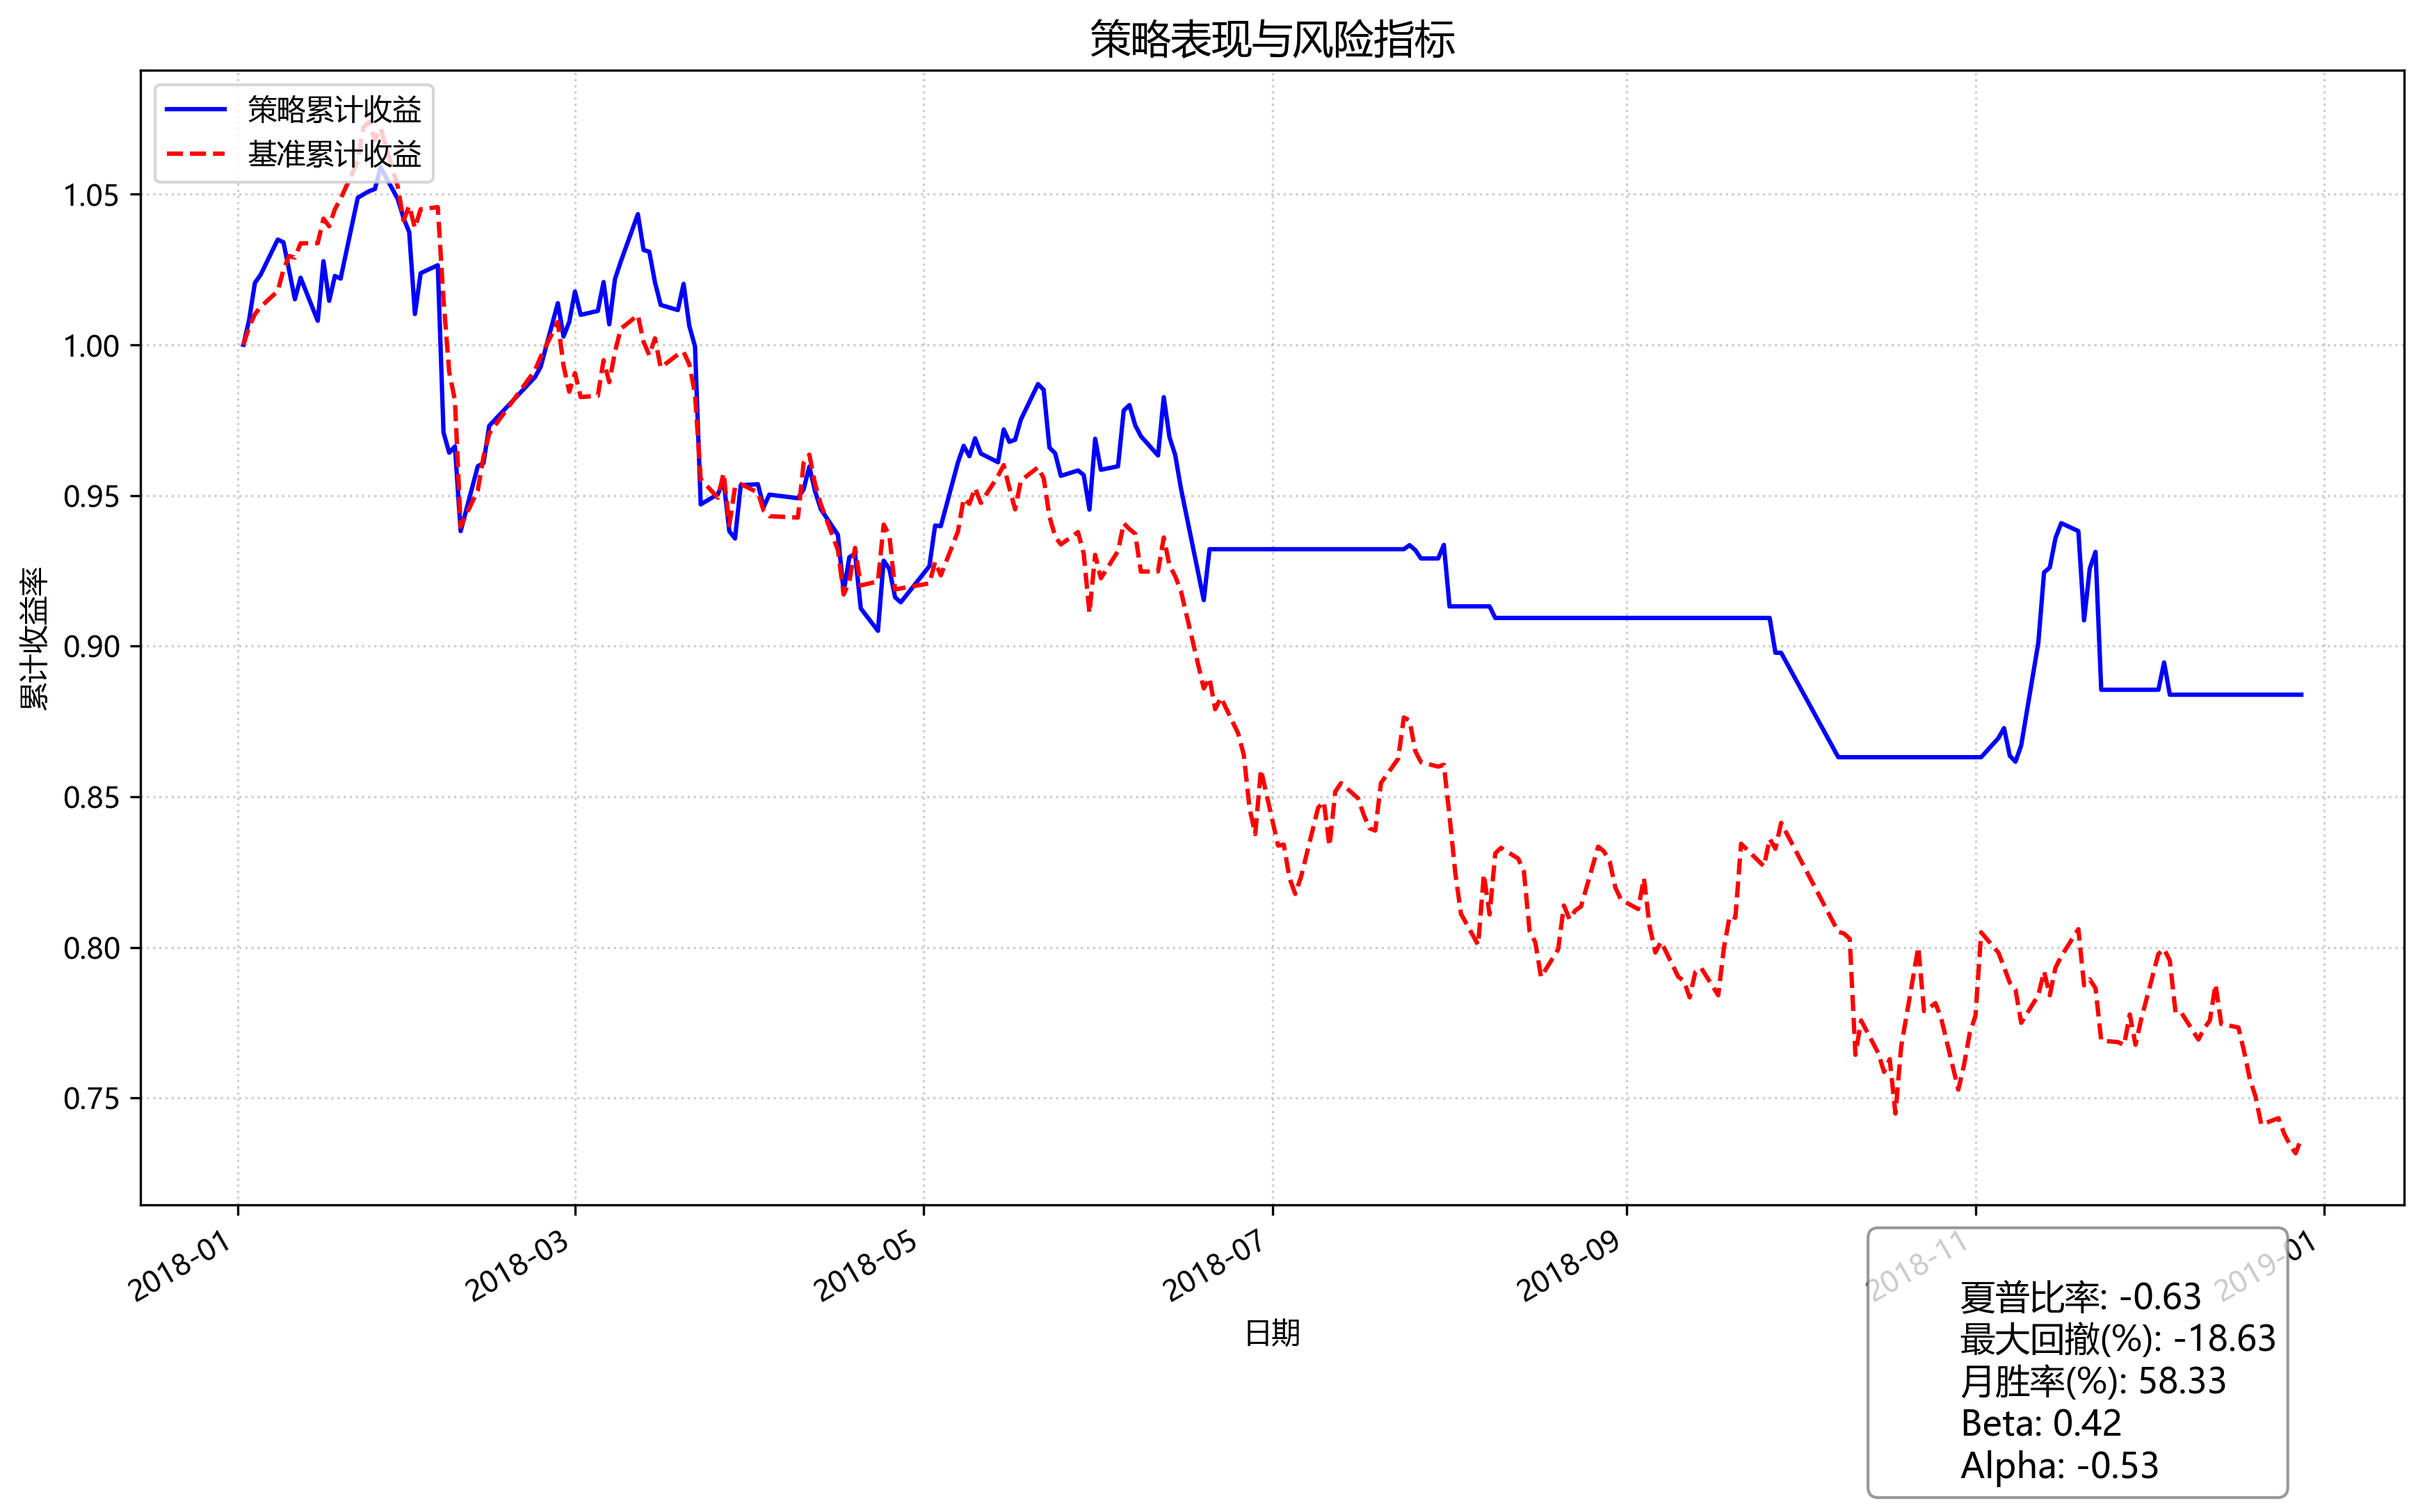
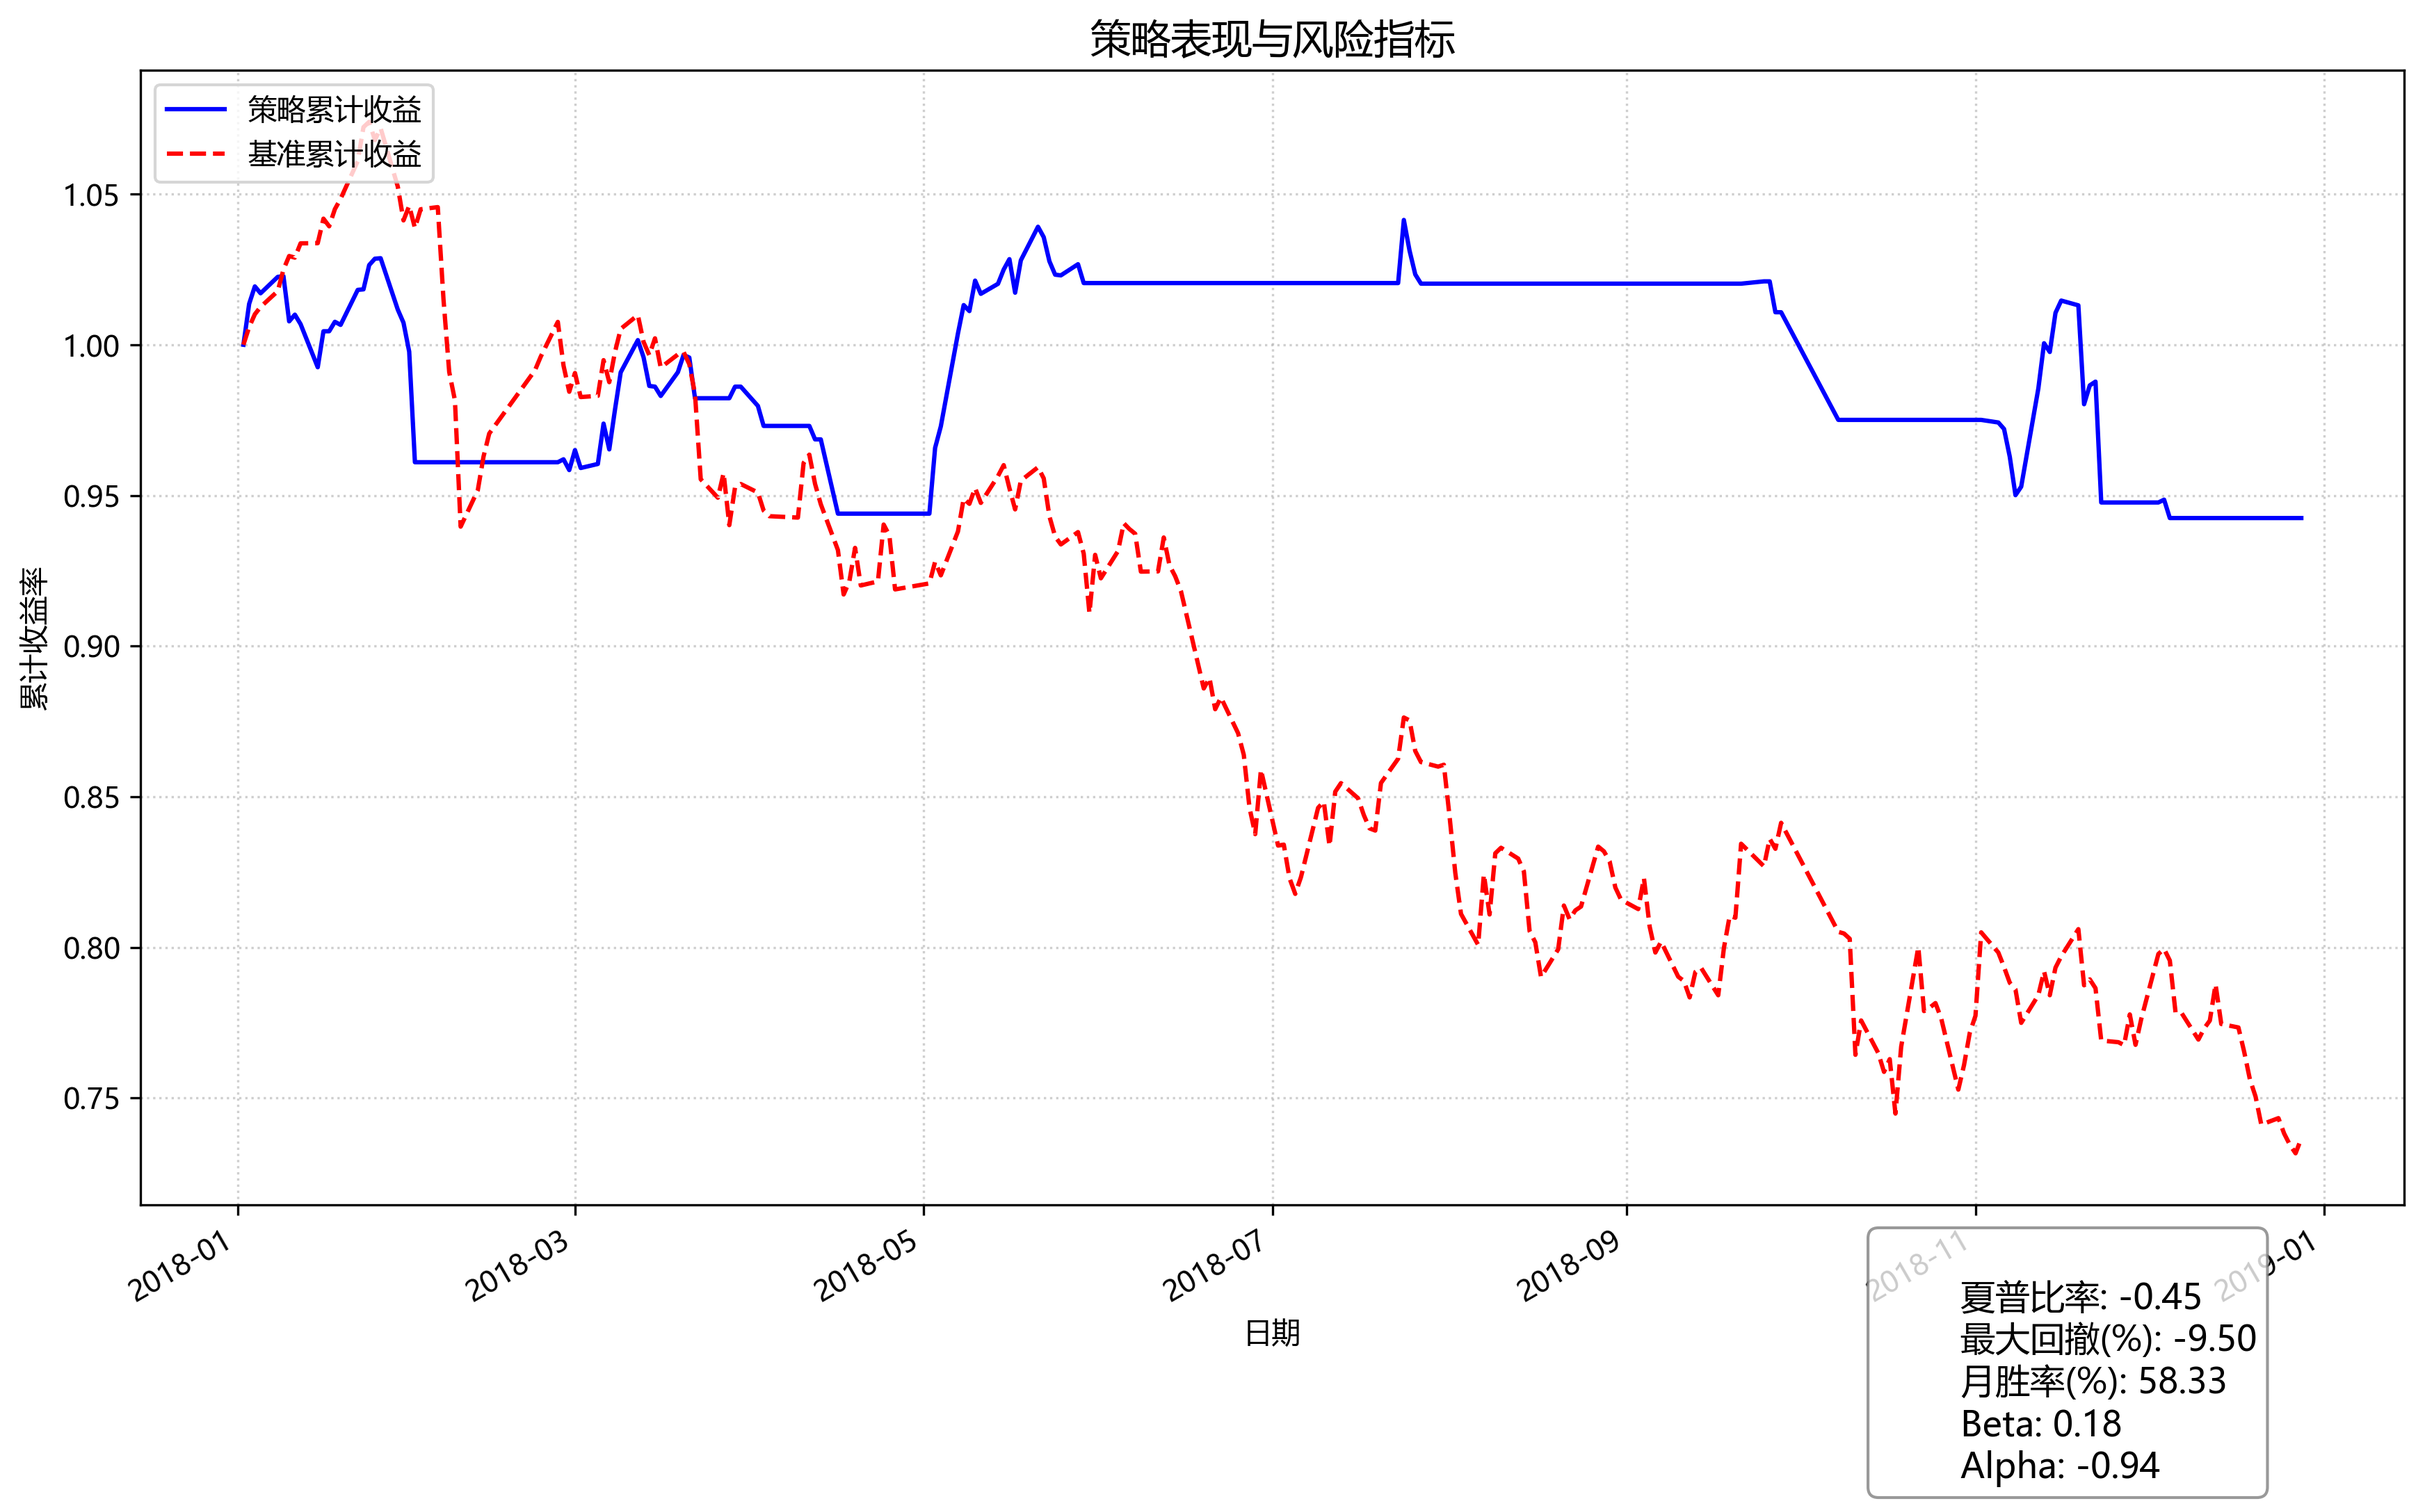
dev strategy

diff --git a/simple_backtrade/strategy/kaimin.py b/simple_backtrade/strategy/kaimin.py
@@ -122,9 +122,9 @@ class BaseStrategy:
         pe=share_price/self.stock_factors['profit_per_share']
         rising_index=share_price[share_price>=mean20].index
 
-        low_estimat_pe=pe[pe<35]
-        recovering_pe=pe[(pe<35)&(share_price>=mean20)].sort_values()
-        #recovering_pe=recovering_pe/self.stock_factors.loc[recovering_pe.index].history_score
+        low_estimat_pe=pe[pe<25]
+        recovering_pe=pe[(pe<25)&(share_price>=mean20)].sort_values()
+        recovering_pe=(recovering_pe/self.stock_factors.loc[recovering_pe.index].history_score).sort_values()
 
         strategy_negative=(len(recovering_pe)/len(low_estimat_pe)<0.3)
         strategy_positive=(len(recovering_pe)/len(low_estimat_pe)>0.6)
@@ -132,9 +132,9 @@ class BaseStrategy:
             if baseline_negative:
                 print("{}: baseline negative strategy positive".format(date))
             return recovering_pe.head(keeps_num)
-        # elif strategy_negative:
-        #     print("{}: strategy negative".format(date))
-        #     return pandas.DataFrame()
+        elif strategy_negative:
+            print("{}: strategy negative".format(date))
+            return pandas.DataFrame()
         else:
             if baseline_negative:
                 print("{}: baseline negative".format(date))

diff --git a/simple_backtrade/data/data_manager.py b/simple_backtrade/data/data_manager.py
@@ -77,7 +77,10 @@ class LocalDataManager(BaseManager):
     
     def get_daily_market_data(self,date,stocks=[])->pandas.DataFrame:
         valid_stocks=self.market_data.index.get_level_values('stock_code').unique().intersection(stocks)
-        market_data=self.market_data.loc[Idx[date,valid_stocks],:]
+        try:
+            market_data=self.market_data.loc[Idx[date,valid_stocks],:]
+        except:
+            market_data=self.market_data.iloc[0:0]
         return market_data.droplevel('trade_date')
     
     

diff --git a/run.py b/run.py
@@ -10,12 +10,8 @@ def task(year):
 
 
 if __name__=='__main__':
-    #debug
-    #2019-04-25
-    #600681
-    #10 +4shares +5yuan
-    #13.78->9.08
     simple_backtrade.adata_request.update(2008,2016)
     param_list=[2017,2018,2019,2020,2021,2022,2023,2024]
     with Pool(len(param_list)) as p:
         p.map(task,param_list)
+    # task(2019)
